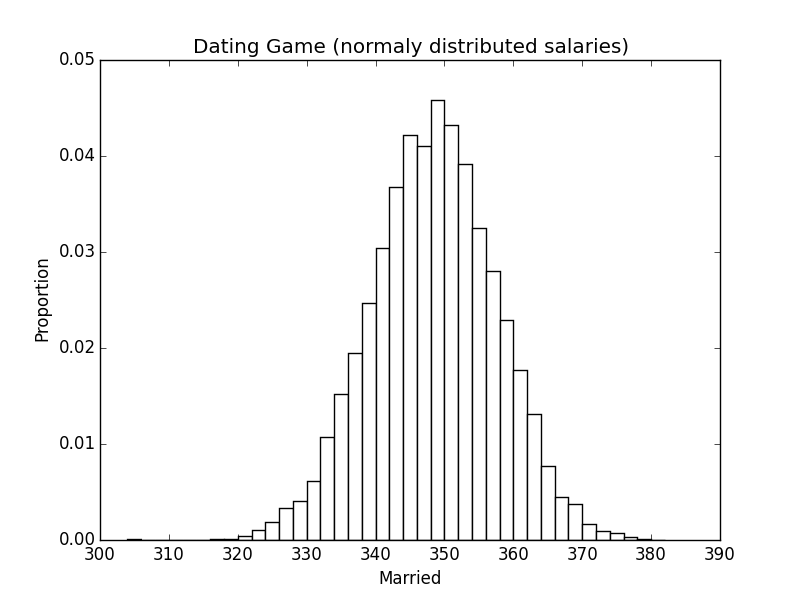
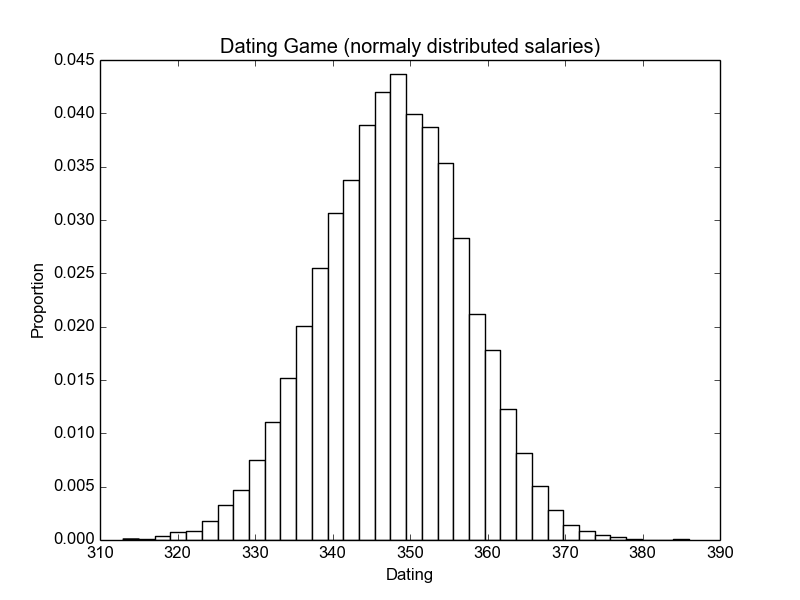
small modifications + additions + generated image inclusion

diff --git a/src/sim5/salary_02.py b/src/sim5/salary_02.py
@@ -6,24 +6,21 @@ import matplotlib.pyplot as plt
 
 
 def simulation(men, women, pool_size):
-    paired = 0
-
     while len(men) > 0 and max(men) > min(women):
         random.shuffle(men)
         random.shuffle(women)
         for man, woman in zip(men, women):
             if man > woman:
-                paired += 1
                 men.remove(man)
                 women.remove(woman)
 
-    return paired
+    return max(men)
 
 
 
 def print_results(results):
     print()
-    print('Dating Game (evenly distributed salaries)')
+    print('Dating Game (normaly distributed salaries)')
     print()
     print('           Minimum: %s' % (np.amin(results)))
     print('   25th Percentile: %s' % (np.percentile(results, 25)))
@@ -41,11 +38,11 @@ def print_results(results):
 def plot_results(results, pool_size):
     plt.clf()
     plt.figure(1, facecolor = 'w')
-    plt.hist(results, color = 'white', bins = (np.max(results) - np.min(results)) / 2, normed = True)
-    plt.title('Dating Game (evenly distributed salaries)')
-    plt.xlabel('Dating')
+    plt.hist(results, color = 'white', bins = (np.max(results) - np.min(results)), normed = True)
+    plt.title('Dating Game (normaly distributed salaries)')
+    plt.xlabel('Salary')
     plt.ylabel('Proportion')
-    plt.savefig('./src/sim5/images/dating_even_%s_%s.png' % (pool_size, len(results)), format = 'png')
+    plt.savefig('./src/sim5/images/salary_normal_%s_%s.png' % (pool_size, len(results)), format = 'png')
     plt.close()
 
 
@@ -56,8 +53,8 @@ def main(argv):
 
     results = []
     for _ in range(iterations):
-        men     = [200 * (float(val) / pool_size) for val in range(pool_size)]
-        women   = [200 * (float(val) / pool_size) for val in range(pool_size)]
+        men     = np.random.normal(100, 33, pool_size).tolist()
+        women   = np.random.normal(100, 33, pool_size).tolist()
         results.append(simulation(men, women, pool_size))
 
     print_results(results)

diff --git a/src/sim5/salary_01.py b/src/sim5/salary_01.py
@@ -6,24 +6,21 @@ import matplotlib.pyplot as plt
 
 
 def simulation(men, women, pool_size):
-    paired = 0
-
     while len(men) > 0 and max(men) > min(women):
         random.shuffle(men)
         random.shuffle(women)
         for man, woman in zip(men, women):
             if man > woman:
-                paired += 1
                 men.remove(man)
                 women.remove(woman)
 
-    return paired
+    return max(men)
 
 
 
 def print_results(results):
     print()
-    print('Dating Game (evenly distributed salaries)')
+    print('Dating Game (uniformly distributed salaries)')
     print()
     print('           Minimum: %s' % (np.amin(results)))
     print('   25th Percentile: %s' % (np.percentile(results, 25)))
@@ -42,10 +39,10 @@ def plot_results(results, pool_size):
     plt.clf()
     plt.figure(1, facecolor = 'w')
     plt.hist(results, color = 'white', bins = (np.max(results) - np.min(results)) / 2, normed = True)
-    plt.title('Dating Game (evenly distributed salaries)')
-    plt.xlabel('Dating')
+    plt.title('Dating Game (uniformly distributed salaries)')
+    plt.xlabel('Salary')
     plt.ylabel('Proportion')
-    plt.savefig('./src/sim5/images/dating_even_%s_%s.png' % (pool_size, len(results)), format = 'png')
+    plt.savefig('./src/sim5/images/salary_uniform_%s_%s.png' % (pool_size, len(results)), format = 'png')
     plt.close()
 
 
@@ -56,8 +53,8 @@ def main(argv):
 
     results = []
     for _ in range(iterations):
-        men     = [200 * (float(val) / pool_size) for val in range(pool_size)]
-        women   = [200 * (float(val) / pool_size) for val in range(pool_size)]
+        men     = np.random.random_integers(0, 200, pool_size).tolist()
+        women   = np.random.random_integers(0, 200, pool_size).tolist()
         results.append(simulation(men, women, pool_size))
 
     print_results(results)

diff --git a/src/sim5/salary_03.py b/src/sim5/salary_03.py
@@ -6,18 +6,15 @@ import matplotlib.pyplot as plt
 
 
 def simulation(men, women, pool_size):
-    paired = 0
-
     while len(men) > 0 and max(men) > min(women):
         random.shuffle(men)
         random.shuffle(women)
         for man, woman in zip(men, women):
             if man > woman:
-                paired += 1
                 men.remove(man)
                 women.remove(woman)
 
-    return paired
+    return max(men)
 
 
 
@@ -43,9 +40,9 @@ def plot_results(results, pool_size):
     plt.figure(1, facecolor = 'w')
     plt.hist(results, color = 'white', bins = (np.max(results) - np.min(results)) / 2, normed = True)
     plt.title('Dating Game (evenly distributed salaries)')
-    plt.xlabel('Dating')
+    plt.xlabel('Salary')
     plt.ylabel('Proportion')
-    plt.savefig('./src/sim5/images/dating_even_%s_%s.png' % (pool_size, len(results)), format = 'png')
+    plt.savefig('./src/sim5/images/salary_even_%s_%s.png' % (pool_size, len(results)), format = 'png')
     plt.close()
 
 

diff --git a/src/sim5/dating_02.py b/src/sim5/dating_02.py
@@ -43,7 +43,7 @@ def plot_results(results, pool_size):
     plt.figure(1, facecolor = 'w')
     plt.hist(results, color = 'white', bins = (np.max(results) - np.min(results)) / 2, normed = True)
     plt.title('Dating Game (normaly distributed salaries)')
-    plt.xlabel('Married')
+    plt.xlabel('Dating')
     plt.ylabel('Proportion')
     plt.savefig('./src/sim5/images/dating_normal_%s_%s.png' % (pool_size, len(results)), format = 'png')
     plt.close()
@@ -56,8 +56,8 @@ def main(argv):
 
     results = []
     for _ in range(iterations):
-        men     = np.random.normal(100, 17, pool_size).tolist()
-        women   = np.random.normal(100, 17, pool_size).tolist()
+        men     = np.random.normal(100, 33, pool_size).tolist()
+        women   = np.random.normal(100, 33, pool_size).tolist()
         results.append(simulation(men, women, pool_size))
 
     print_results(results)

diff --git a/src/sim5/dating_01.py b/src/sim5/dating_01.py
@@ -43,7 +43,7 @@ def plot_results(results, pool_size):
     plt.figure(1, facecolor = 'w')
     plt.hist(results, color = 'white', bins = (np.max(results) - np.min(results)) / 2, normed = True)
     plt.title('Dating Game (uniformly distributed salaries)')
-    plt.xlabel('Married')
+    plt.xlabel('Dating')
     plt.ylabel('Proportion')
     plt.savefig('./src/sim5/images/dating_uniform_%s_%s.png' % (pool_size, len(results)), format = 'png')
     plt.close()
